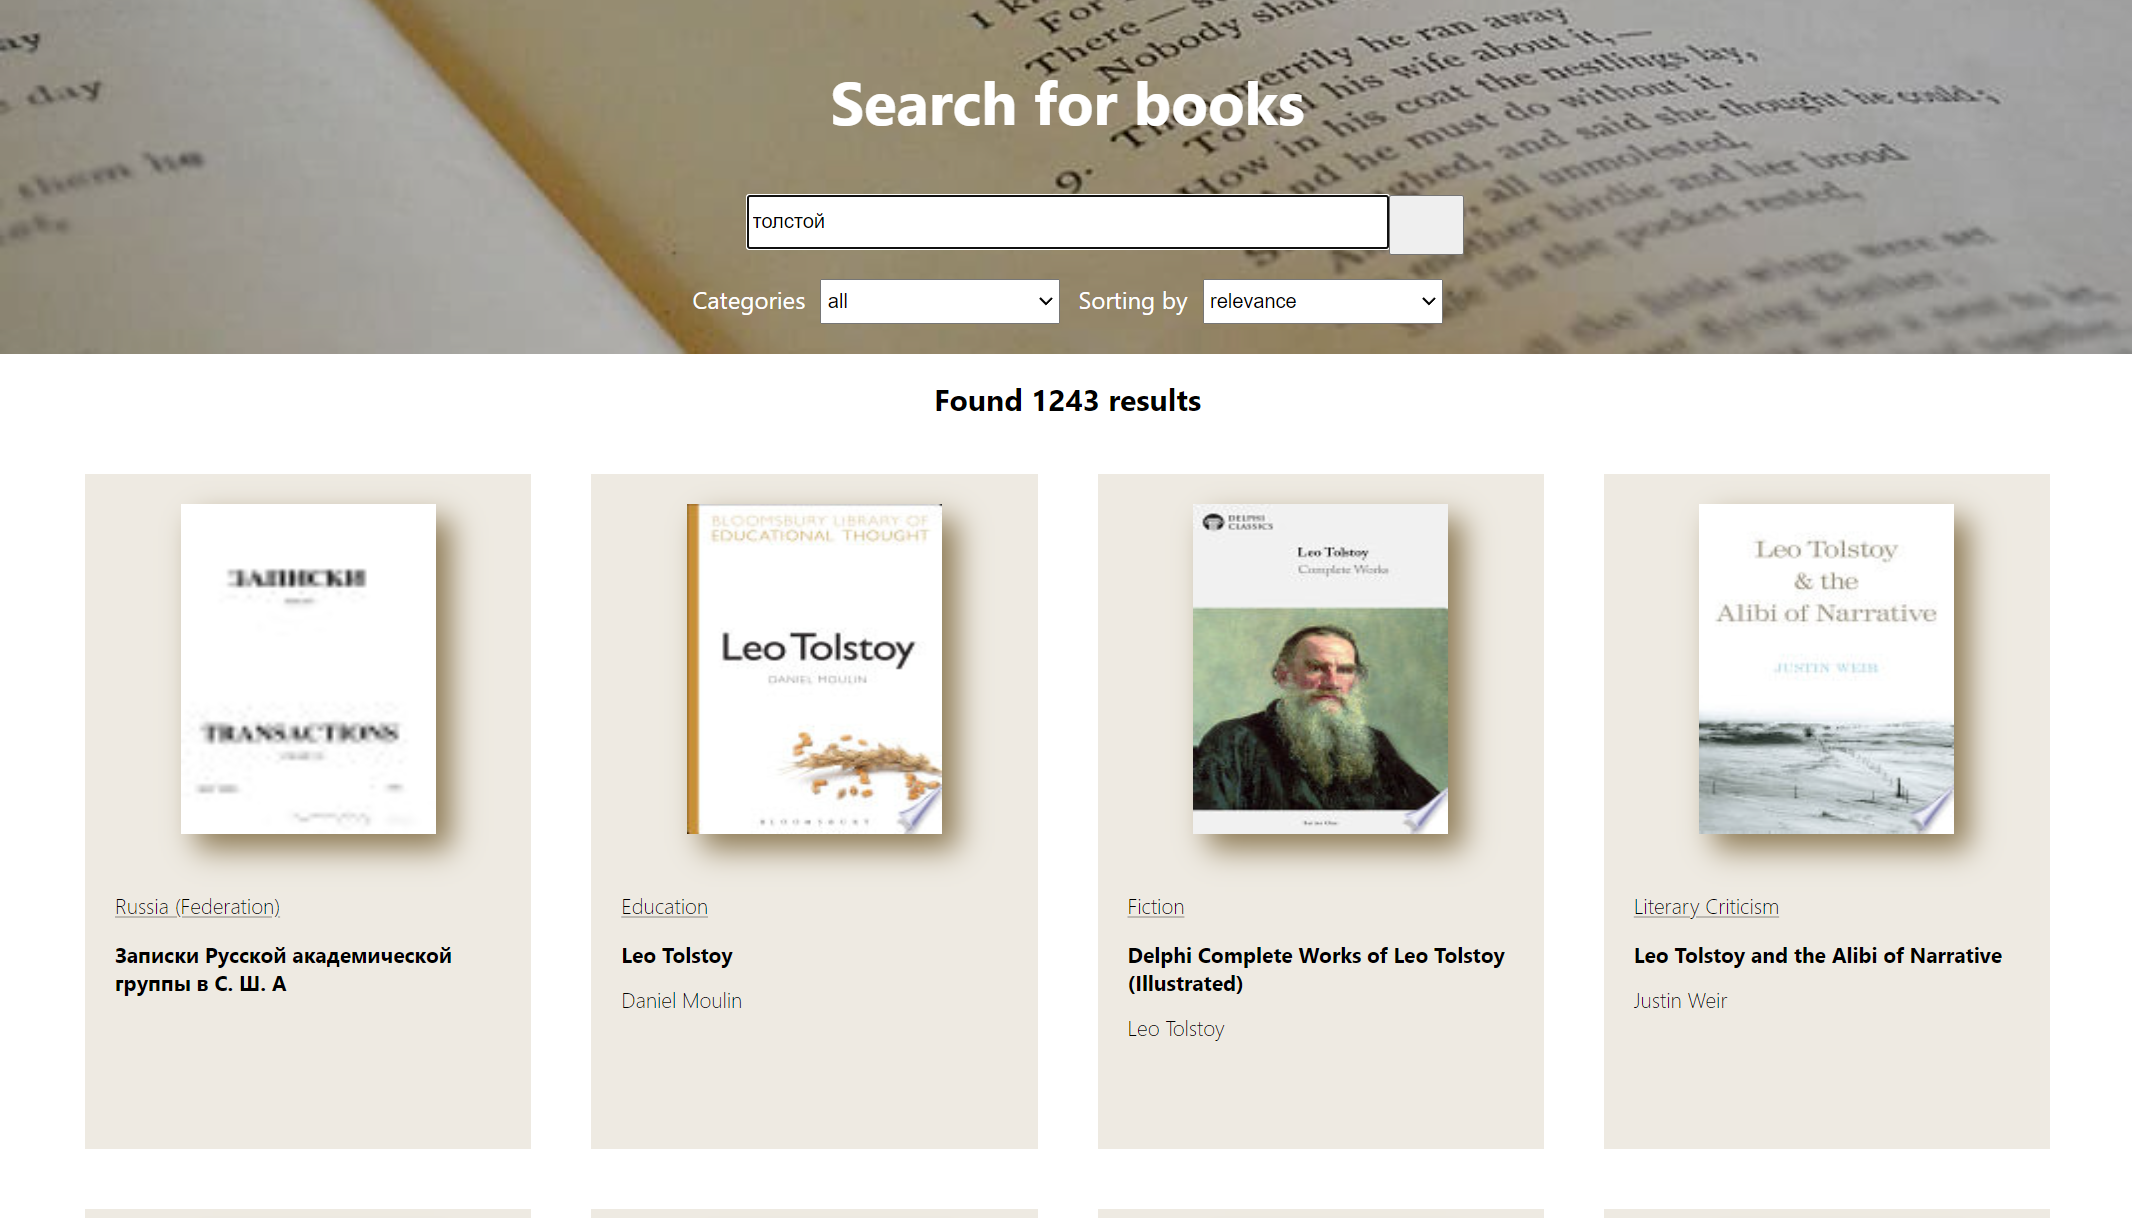
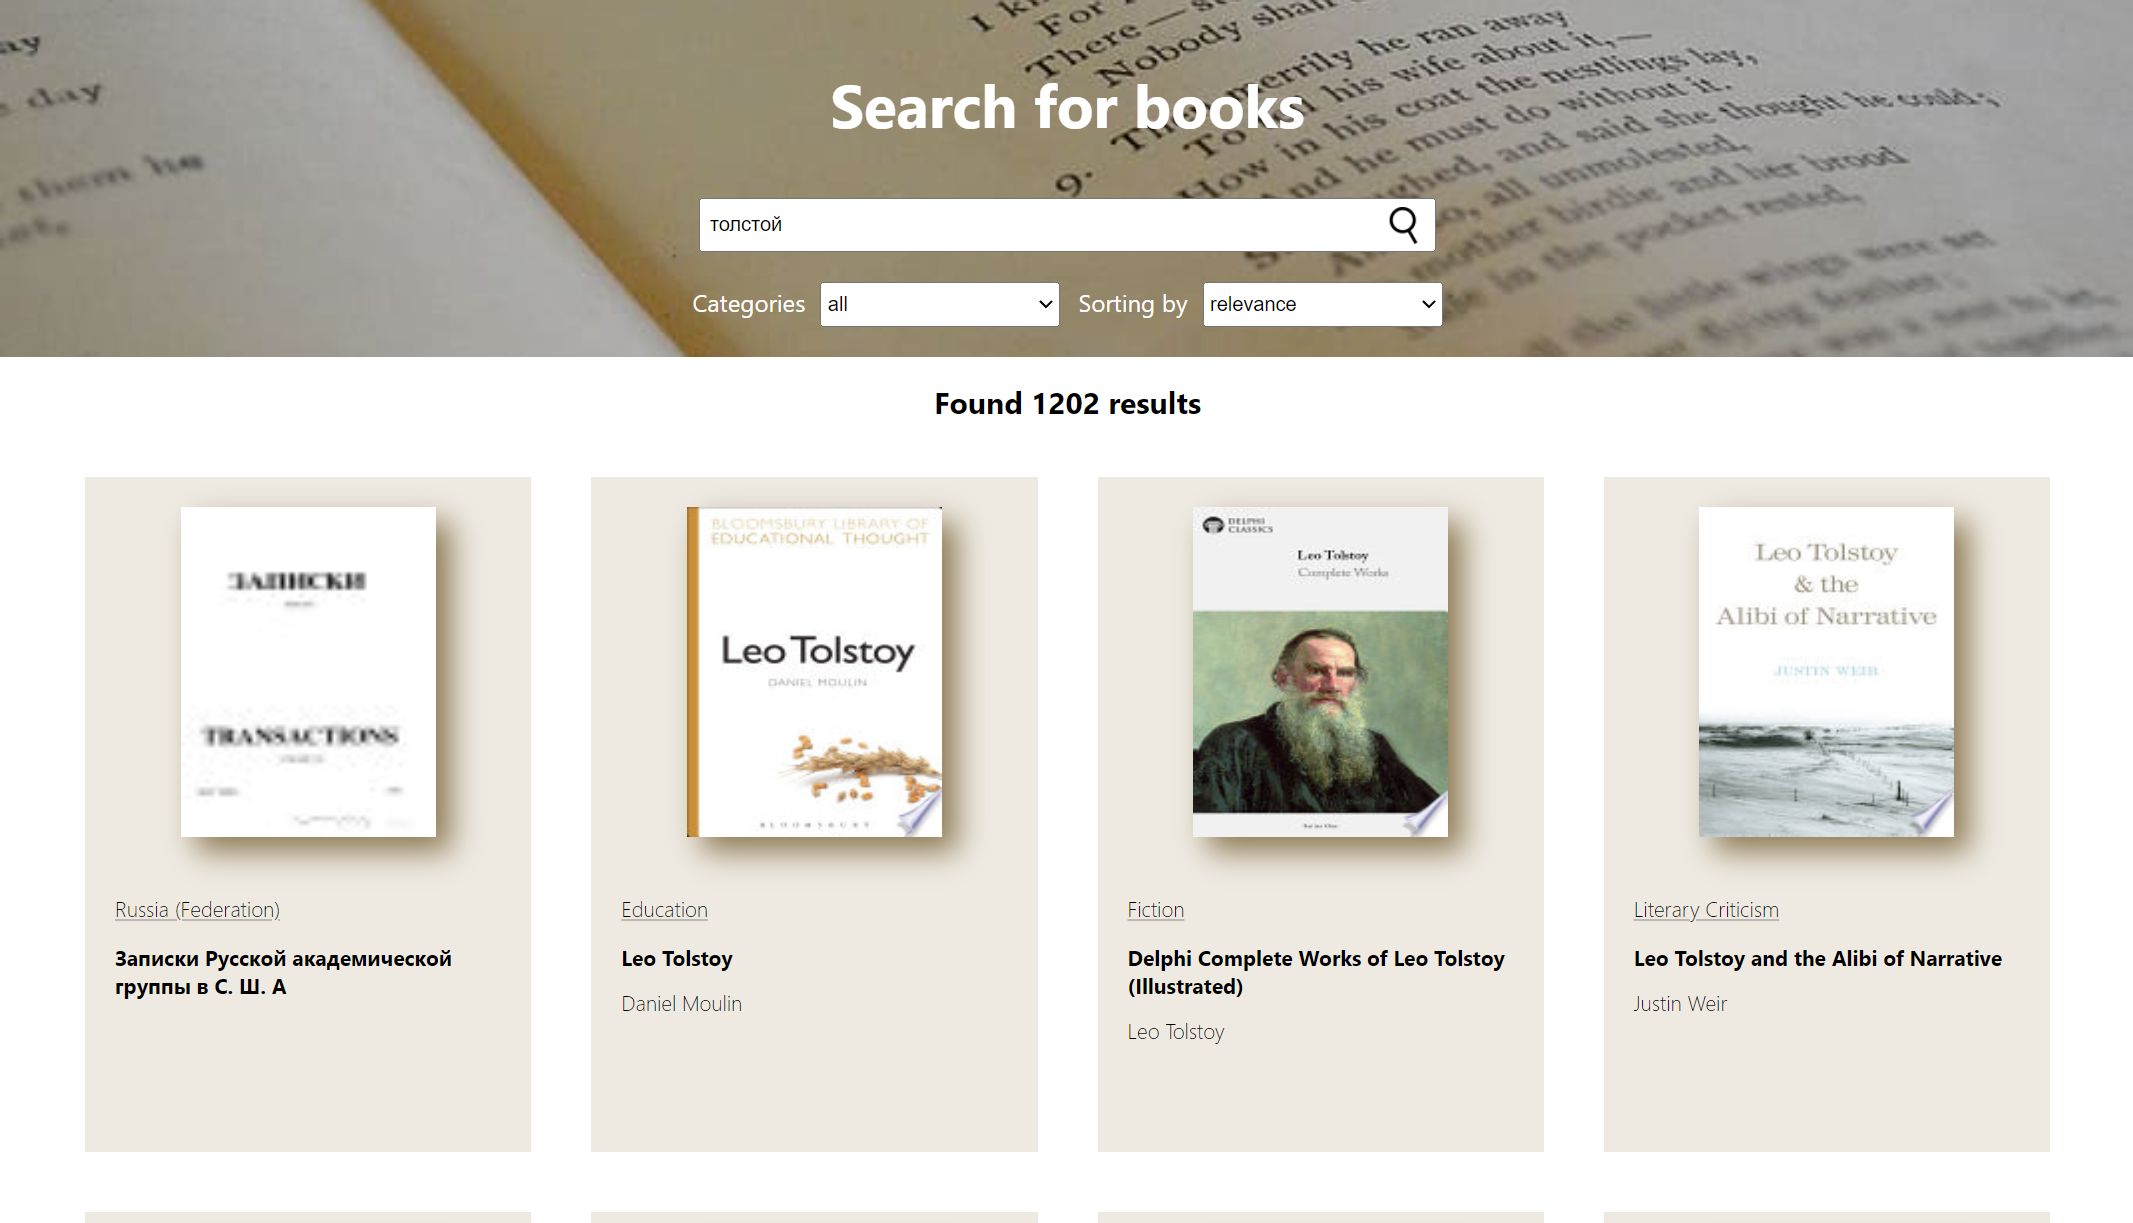
Style search button

diff --git a/src/components/Header/HeaderWithHooks.jsx b/src/components/Header/HeaderWithHooks.jsx
@@ -2,6 +2,7 @@ import { useDispatch, useSelector } from 'react-redux';
 import { NavLink } from 'react-router-dom';
 import { pushSearchButton, selectedCategory, sortingSelection, updateSearchText } from '../../redux/header-reducer';
 import s from './Header.module.css'
+import ButtonImage from './../../assets/images/button.png'
 
 const HeaderWithHooks = () => {
 
@@ -38,7 +39,11 @@ const HeaderWithHooks = () => {
                 <h1 className={s.title}>Search for books</h1>
                 <form className={s.search}>
                     <input className={s.search_bookname} onChange={onUpdateSearchText} onKeyPress={onPushEnter} autoFocus={true} value={newSearchStringBody} />
-                    <NavLink to='/results'><button className={s.search_button} onClick={onPushSearchButton} ></button></NavLink>
+                    <NavLink to='/results'>
+                        <button className={s.search_button} onClick={onPushSearchButton} >
+                            <img src={ButtonImage} className={s.button_img} />
+                        </button>
+                    </NavLink>
                 </form>
                 <div className={s.options}>
                     <div className={s.categories}> Categories

diff --git a/src/components/Header/Header.module.css b/src/components/Header/Header.module.css
@@ -35,14 +35,25 @@
 }
 .search_bookname{
     min-height: 30px;
-    min-width: 35%;
+    min-width: 40%;
+    padding-left: 5px;
     /*width: 100%;
     box-sizing: border-box;*/
 }
 .search_button{
     position: absolute;
-    min-width: 50px;
+    min-width: 30px;
     min-height: 40px; 
+    border: none;
+    background-color: transparent;
+    /* outline: none; */
+    /* cursor: pointer; */
+    margin-left: -40px;
+    overflow: visible;
+}
+.button_img{
+    /* border-style: none; */
+    width: 25px;
 }
 .options{
     max-width: 500px; 
